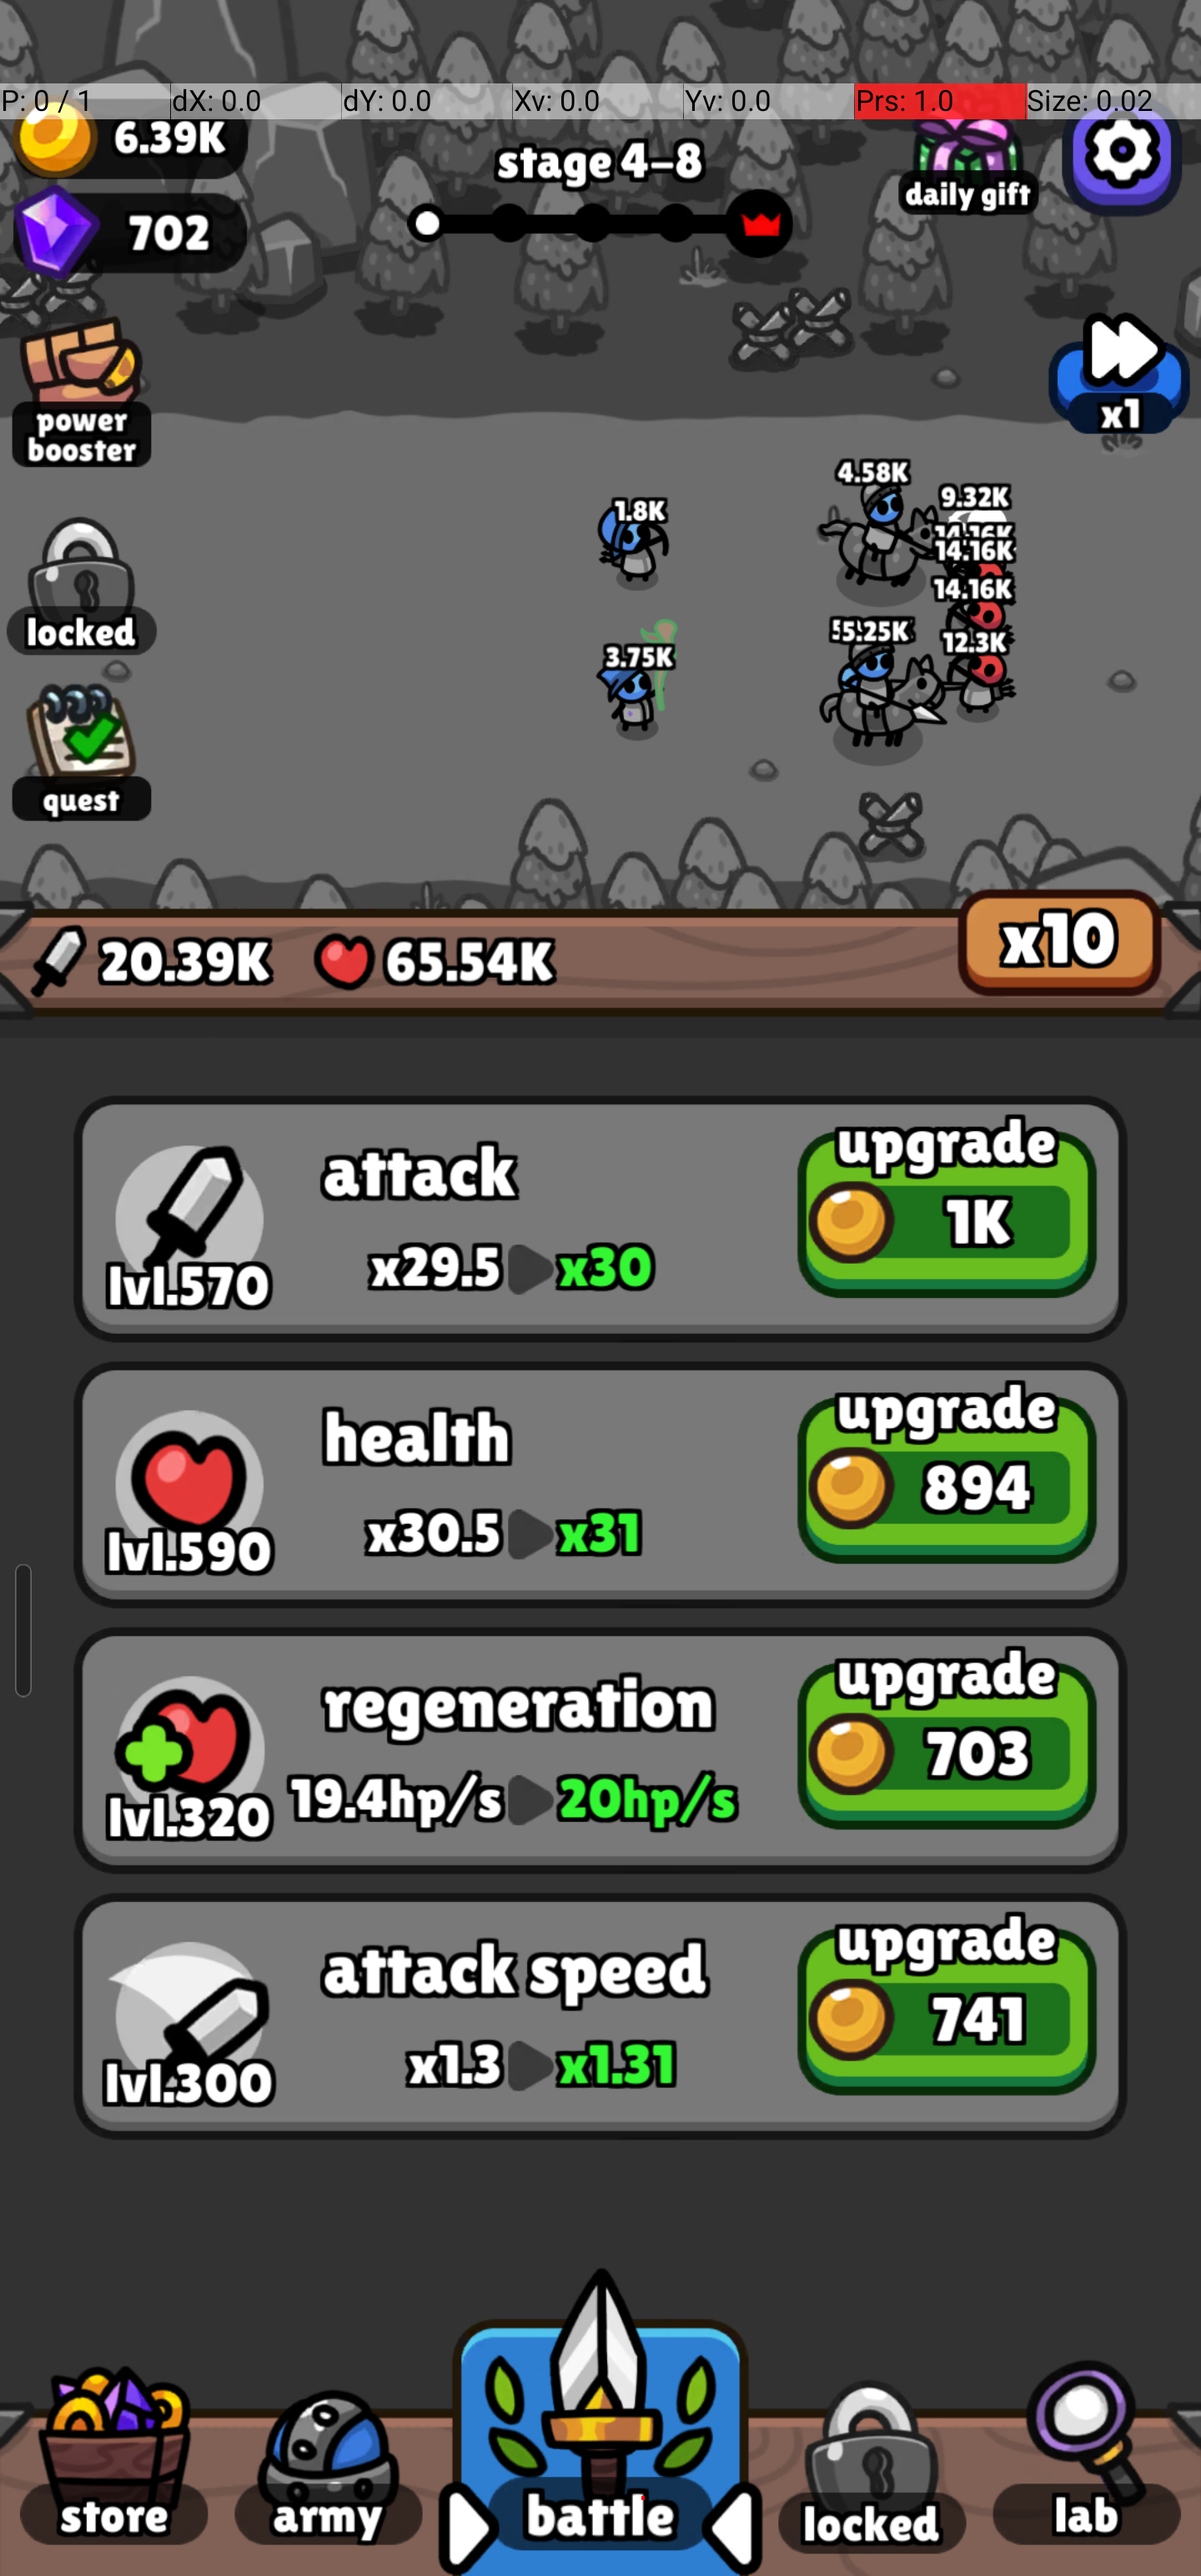
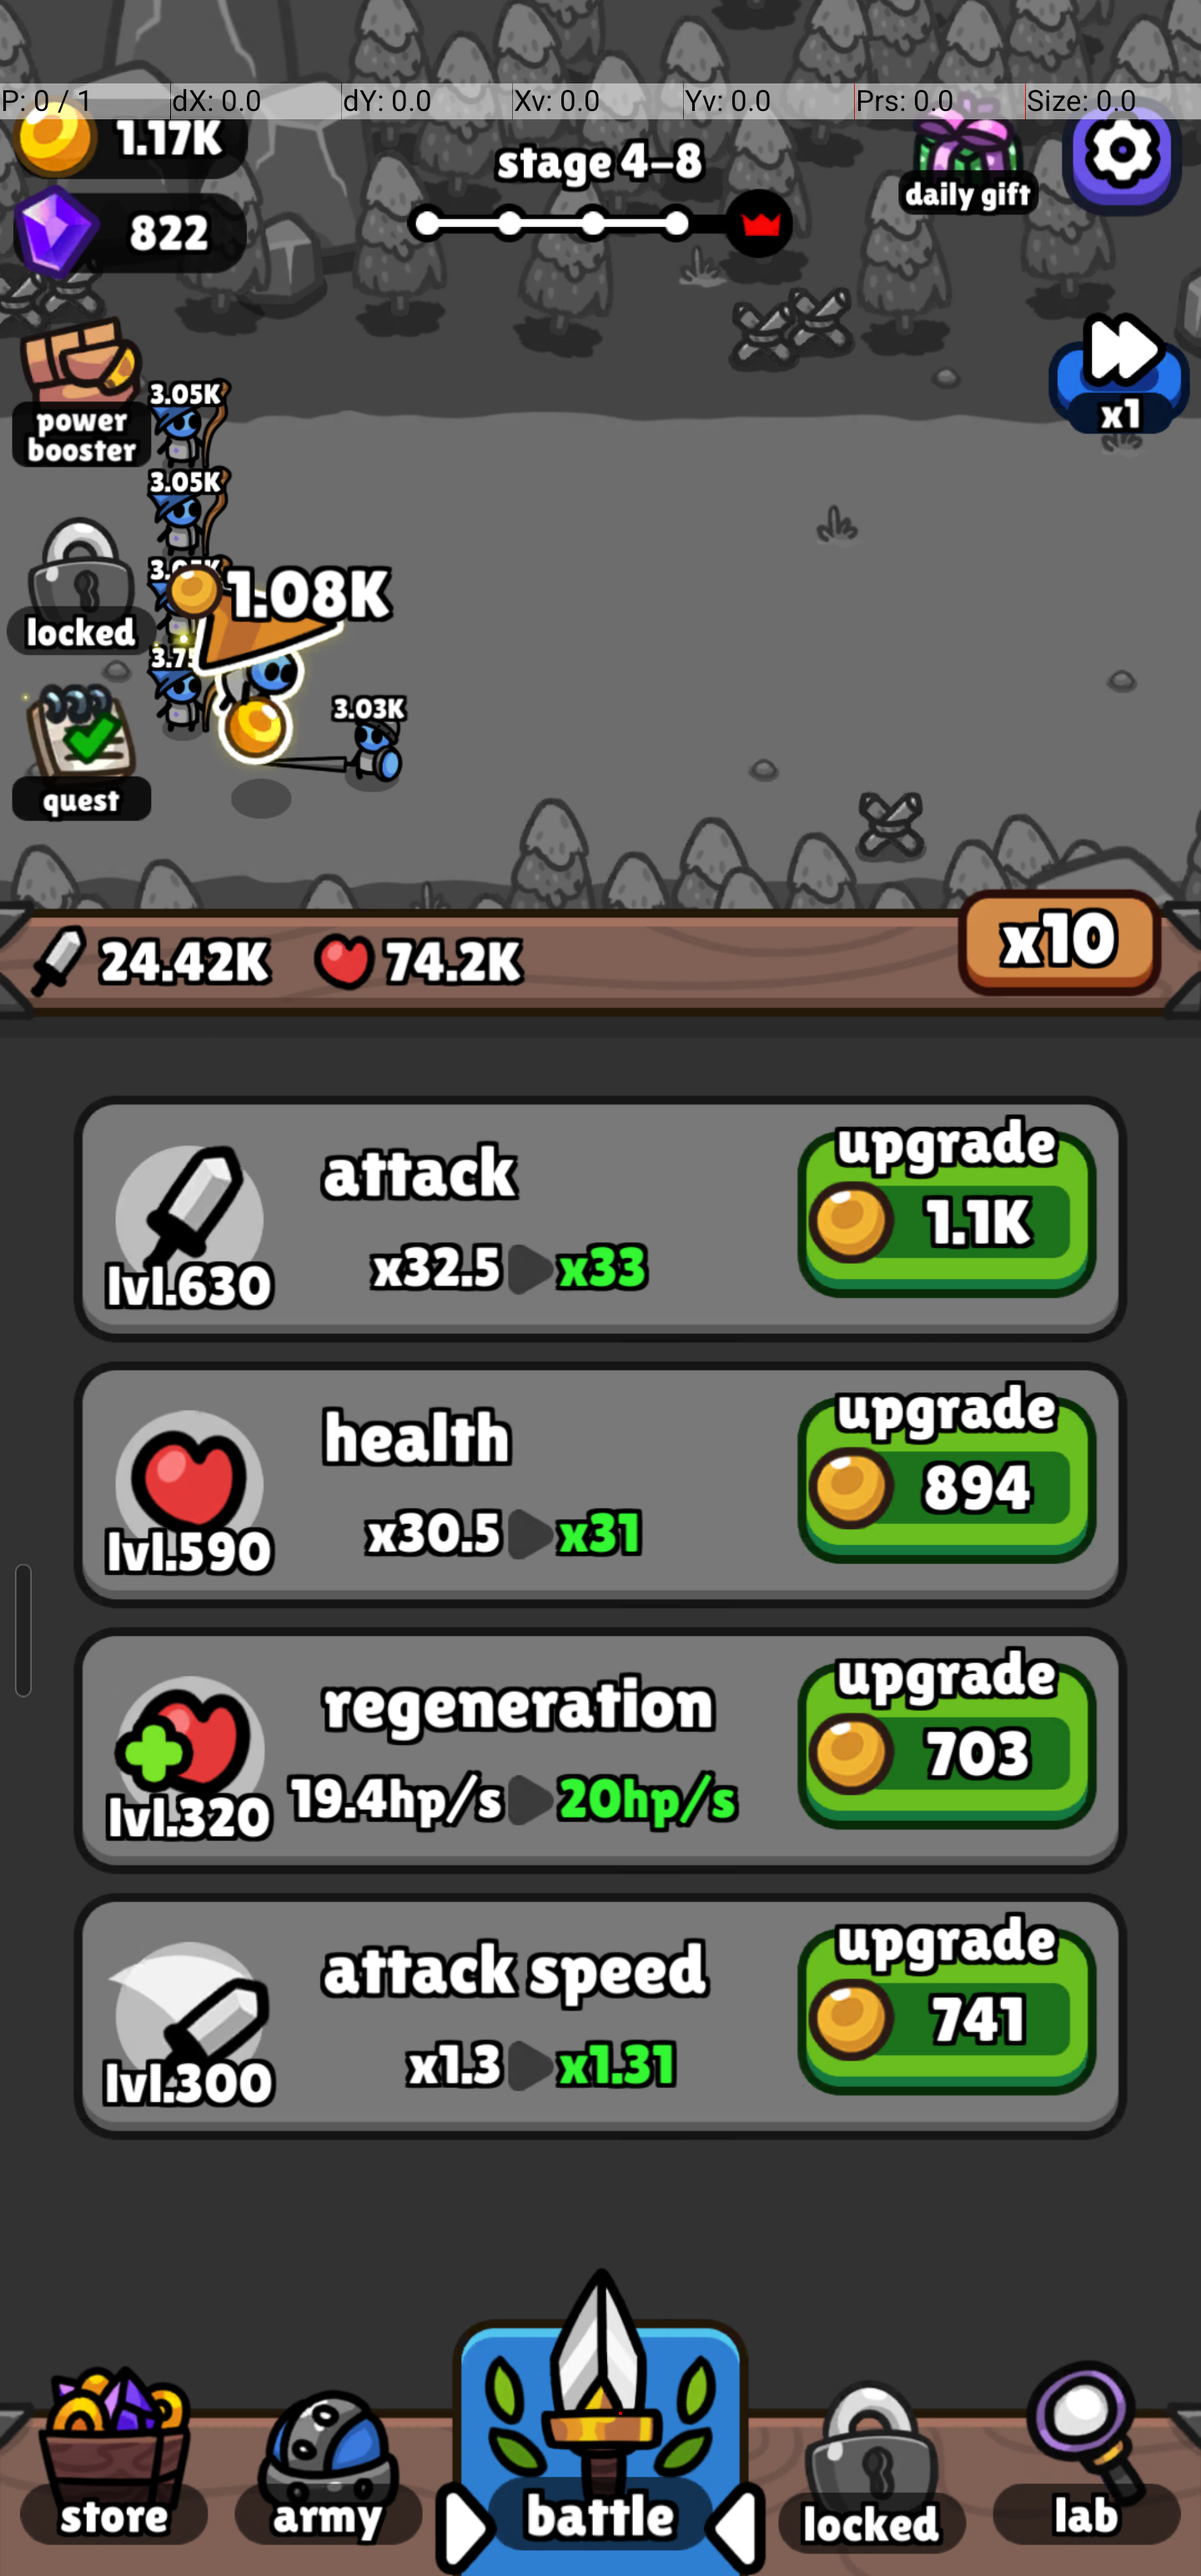
big-update

diff --git a/Bot learning/learning.py b/Bot learning/learning.py
@@ -1,0 +1,143 @@
+# learning.py
+import subprocess
+from PIL import Image
+import time
+import cv2
+import numpy as np
+import io
+import os
+
+
+class BotController:
+    def __init__(self):
+        self.play_button = (500,500) # Coords for play ad button
+        self.close_button = (500,500)
+        self.ad_time = 60 # Seconds
+        
+    def load_templates(self, start_dir = "templates/ad_start", close_dir = "templates/ad_close"):
+        templates = {"start":[], "close":[]}
+        for filename in os.listdir(start_dir):
+            if filename.lower().endswith((".png", ".jpg", ".jpeg")):
+                templates["start"].append(os.path.join(start_dir, filename))
+        for filename in os.listdir(close_dir):
+            if filename.lower().endswith((".png", ".jpg", ".jpeg")):
+                templates["close"].append(os.path.join(close_dir, filename))
+        print(f"Loaded {len(templates['start'])} start tempolates and {len(templates['close'])} close templates")
+        return templates
+    
+    
+    # The "meat" of the program
+    def run_adb(self, command: list[str]):
+        # Prints the command we're about to run. 
+        print("Running:", "adb", " ".join(command))
+        # Run adb command safely
+        result = subprocess.run(["adb"] + command, check=True)
+        return result
+    #
+    
+    
+    # ADB Control Layers
+    def tap(self, x,y):
+        return self.run_adb(["shell", "input", "tap", str(x), str(y)])
+    def swipe(self, x1, y1, x2, y2, duration):
+        return self.run_adb(["shell", "input", "swipe", str(x1), str(y1), str(x2), str(y2), str(duration)])
+    def press_key(self, keycode):
+        return self.run_adb(["shell", "input", "keyevent", str(keycode)])
+    #
+    
+    
+    # Adding "Vision"
+    def get_screenshot(self, filename="screen.png"): # Saves and Reads with Disk Drive
+        with open(filename, "wb") as f:
+            subprocess.run(["adb", "exec-out", "screencap", "-p"], stdout=f)
+        img = Image.open(filename)
+        img.show()
+        return img
+    def get_screencap(self): # Reads from RAM
+        result = subprocess.run(
+            ["adb", "exec-out", "screencap", "-p"],
+            stdout = subprocess.PIPE,
+            check = True
+        )
+        return Image.open(io.BytesIO(result.stdout))
+    #
+
+
+    def find_image_on_screen(self, screen_img, template_path, threshold = 0.8):
+        screen_cv = cv2.cvtColor(np.array(screen_img), cv2.COLOR_RGB2BGR)
+        template = cv2.imread(template_path, cv2.IMREAD_COLOR)
+        result = cv2.matchTemplate(screen_cv, template, cv2.TM_CCOEFF_NORMED)
+        min_val, max_val, min_loc, max_loc = cv2.minMaxLoc(result)
+        
+        if max_val >= threshold:
+            return max_loc # (x,y) where template matched
+        return None
+    
+    
+    # Logic Looping. Main bot program put together in one method.
+    def watch_ad_cycle(self, templates, check_interval = 1, max_wait = 900):
+        # Wait for ad to start
+        start_time = time.time()
+        while True:
+            screen_img = self.get_screencap()
+            found = False
+            for start_template in templates["start"]:
+                coords = self.find_image_on_screen(screen_img, start_template)
+                if coords:
+                    print(f"Ad detected with the template: {start_template}")
+                    self.tap(coords[0], coords[1])
+                    found = True
+                    break
+            if found:
+                break
+            elif time.time() - start_time > max_wait:
+                print("Timeout: ad not detected")
+                return
+            else:
+                print("Waiting for ad to appear...")
+                time.sleep(check_interval)
+        # Wait for close button to appear
+        start_time = time.time()
+        while True:
+            screen_img = self.get_screencap()
+            found = False
+            for close_template in templates["close"]:
+                coords = self.find_image_on_screen(screen_img, close_template)
+                if coords:
+                    self.tap(coords[0], coords[1])
+                    print(f"Ad closed using template: {close_template}")
+                    found = True
+                    break
+            if found:
+                break
+            elif time.time() - start_time > max_wait:
+                print("Timeout: close button not detected")
+                return
+            else:
+                print(f"Watching ad... waiting {check_interval} seconds for the close button.")
+                time.sleep(check_interval)
+    #
+    
+    
+    # def navigation(self):
+        
+    #
+    def run_main_loop(self,templates, categories, ad_button_coords, max_cycles):
+        
+    #
+
+
+
+# End of program.
+if __name__ == "__main__":
+    bot = BotController()
+    templates = bot.load_templates()
+    bot.watch_ad_cycle(templates)
+    
+    categories = {
+        "menu_1": (300, 1200),
+        "menu_2": (5,5),
+        "menu_3": (5,5),
+    }  
+    ad_button_coords = (5,5)
+    bot.run_main_loop(templates, categories, ad_button_coords, max_cycles = 10)

diff --git a/Auto Clicker/auto_clicker.py b/Auto Clicker/auto_clicker.py
@@ -1,0 +1,63 @@
+import tkinter as tk
+import threading
+import pyautogui
+import time
+import keyboard
+
+clicking = False
+
+def start_clicking():
+    global clicking
+    if clicking:
+        return
+    clicking = True
+    status_label.config(text="Status: RUNNING", fg="green")
+    threading.Thread(target=click_loop, daemon=True).start()
+
+def stop_clicking():
+    global clicking
+    clicking = False
+    status_label.config(text="Status: STOPPED", fg="red")
+
+def click_loop():
+    delay = float(delay_entry.get())
+    duration = float(duration_entry.get())
+    start_time = time.time()
+
+    while clicking and (time.time() - start_time < duration):
+        pyautogui.click()
+        time.sleep(delay)
+
+    stop_clicking()
+
+def listen_hotkeys():
+    keyboard.add_hotkey('s', start_clicking)
+    keyboard.add_hotkey('q', stop_clicking)
+    keyboard.wait()  # keeps listening in background
+
+# GUI setup
+root = tk.Tk()
+root.title("Simple Auto Clicker")
+
+tk.Label(root, text="Click Delay (sec):").grid(row=0, column=0, padx=5, pady=5)
+delay_entry = tk.Entry(root)
+delay_entry.insert(0, "0.1")
+delay_entry.grid(row=0, column=1, padx=5, pady=5)
+
+tk.Label(root, text="Duration (sec):").grid(row=1, column=0, padx=5, pady=5)
+duration_entry = tk.Entry(root)
+duration_entry.insert(0, "5")
+duration_entry.grid(row=1, column=1, padx=5, pady=5)
+
+start_button = tk.Button(root, text="Start", command=start_clicking)
+start_button.grid(row=2, column=0, padx=5, pady=10)
+
+stop_button = tk.Button(root, text="Stop", command=stop_clicking)
+stop_button.grid(row=2, column=1, padx=5, pady=10)
+
+status_label = tk.Label(root, text="Status: STOPPED", fg="red")
+status_label.grid(row=3, column=0, columnspan=2, pady=5)
+
+threading.Thread(target=listen_hotkeys, daemon=True).start()
+
+root.mainloop()

diff --git a/Auto Bot v2/bot_v1.5/main.py b/Auto Bot v2/bot_v1.5/main.py
@@ -66,6 +66,10 @@ def run_bot():
         time.sleep(1)  # cooldown per cycle
 
 
+
+
+
+
 def main():
     run_bot()
 

diff --git a/Auto Bot v2/bot_v1.5/backend/rules.py b/Auto Bot v2/bot_v1.5/backend/rules.py
@@ -1,0 +1,6 @@
+
+
+
+
+
+
